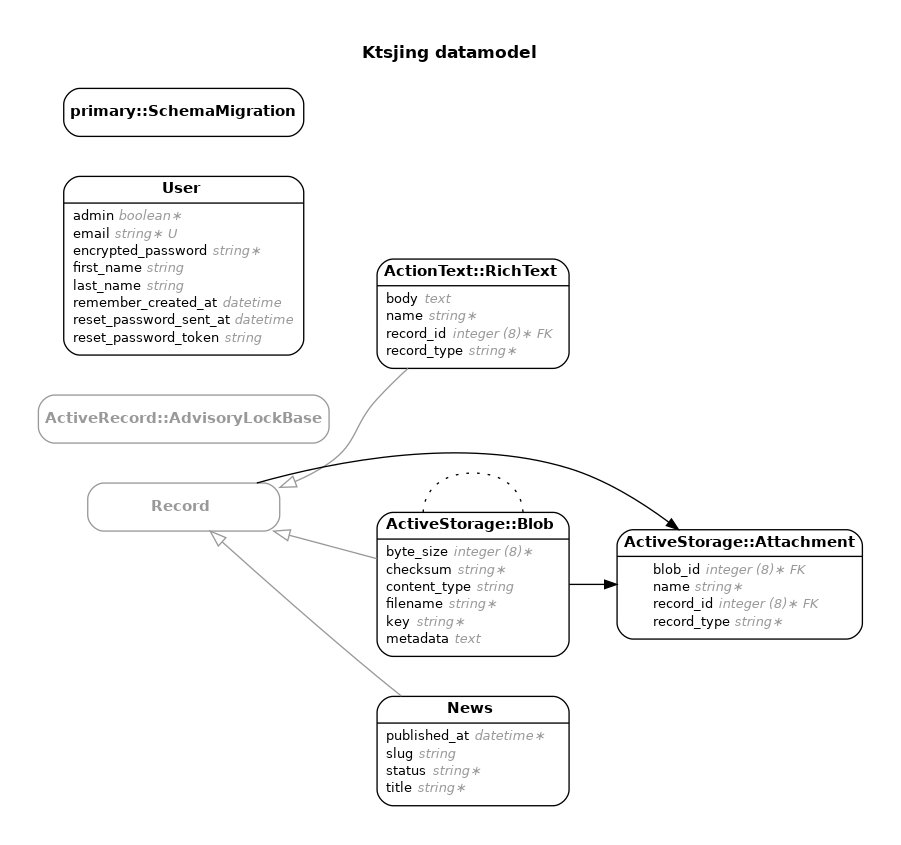
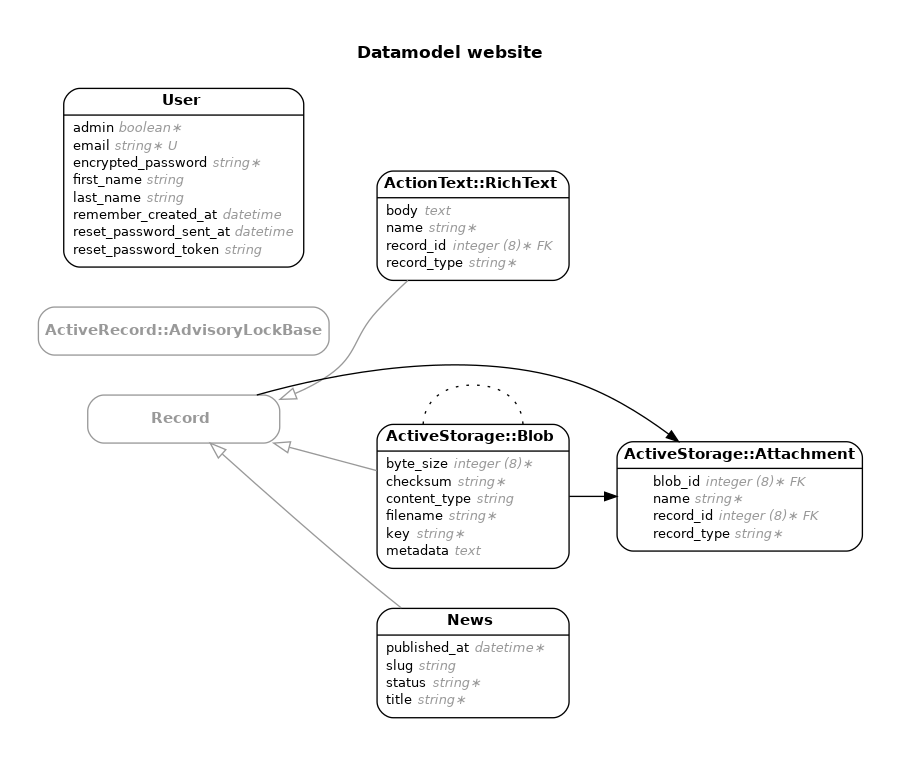
Annotate models, add erd generation

diff --git a/README.md b/README.md
@@ -1,5 +1,9 @@
 # README
 
+## Data model
+
+![Erd](erd.png)
+
 This README would normally document whatever steps are necessary to get the
 application up and running.
 
